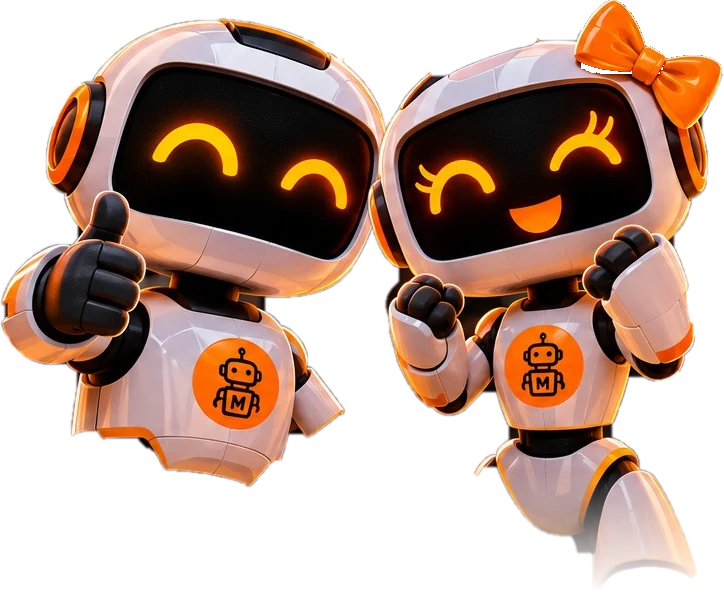
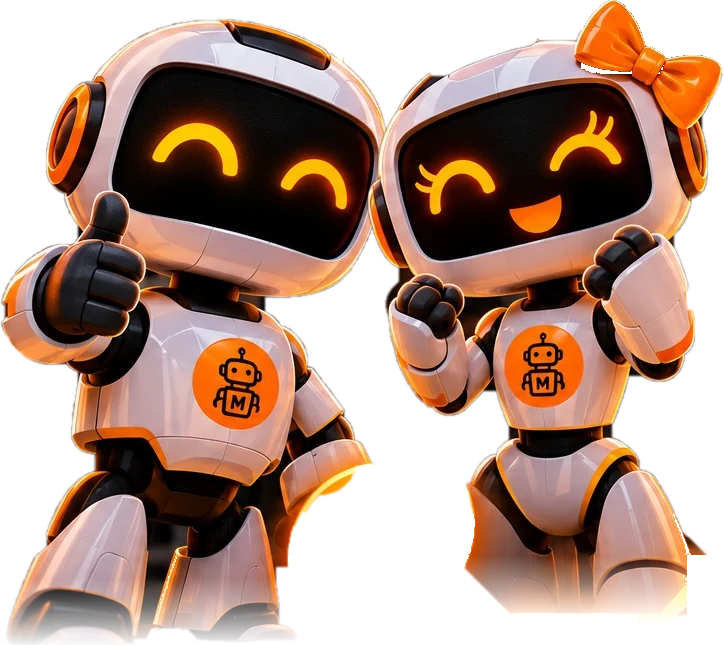
Black Friday: corpo inteiro dos robôs e seções centralizadas (hero à esquerda) (#10)
Claude-Session: https://claude.ai/code/session_01TjswJxo8KnA18Yvp363SCs

diff --git a/myrobot-vercel/blackfriday.html b/myrobot-vercel/blackfriday.html
@@ -100,7 +100,7 @@ a{color:inherit}
 .proof{display:flex;flex-wrap:wrap;gap:6px 16px;margin-top:18px;font-size:13px;color:var(--mut)}
 .proof span{display:inline-flex;align-items:center;gap:7px}
 .proof span::before{content:'';width:6px;height:6px;border-radius:50%;background:var(--orange)}
-.robos{position:relative;display:flex;justify-content:center;align-items:flex-end;margin:14px 0 0;height:min(66vw,300px)}
+.robos{position:relative;display:flex;justify-content:center;align-items:flex-end;margin:14px 0 0;height:min(86vw,400px)}
 .robos img{height:100%;width:auto;display:block;filter:drop-shadow(0 0 40px rgba(255,106,26,.28))}
 
 /* seções */
@@ -202,7 +202,7 @@ footer p{margin-top:4px}
   .hero .wrap{display:grid;grid-template-columns:1.2fr .8fr;gap:20px;align-items:center}
   .cta-row{flex-direction:row;align-items:center}
   .cta-row .btn{white-space:nowrap}
-  .robos{height:440px;margin:0}
+  .robos{height:500px;margin:0}
   .vc{display:inline-flex}
   .ofertas{display:grid;grid-template-columns:repeat(4,1fr);overflow:visible;margin:36px 0 0;padding:0}
   .of{flex:none}
@@ -214,6 +214,21 @@ footer p{margin-top:4px}
   .sticky{display:none}
   footer{padding-bottom:50px}
 }
+
+/* tudo centralizado, exceto o hero */
+section:not(.hero) .wrap{text-align:center}
+section:not(.hero) .sub,.priv{margin-left:auto;margin-right:auto}
+.fine{margin-left:auto;margin-right:auto}
+.of ul{justify-items:start;width:fit-content;margin:12px auto 0}
+.of li{text-align:left}
+.pa{flex-direction:column;align-items:center;text-align:center}
+.pq div{padding:18px 0 0;border-left:0;border-top:2px solid var(--orange);max-width:340px;margin:0 auto}
+.form{margin-left:auto;margin-right:auto;text-align:left}
+.passo h3,.passo .s,.ok{text-align:center}
+.priv{text-align:center}
+details{text-align:left}
+footer .wrap{text-align:center}
+footer img{margin-left:auto;margin-right:auto}
 @media(prefers-reduced-motion:reduce){*{transition:none!important;scroll-behavior:auto!important}}
 </style>
 </head>
@@ -239,7 +254,7 @@ footer p{margin-top:4px}
       </div>
       <div class="proof"><span>Robótica, programação e IA</span><span>A partir de 5 anos</span><span>Turmas pequenas</span></div>
     </div>
-    <div class="robos" aria-hidden="true"><img src="/assets/bf/robos.webp" alt="" width="724" height="594" fetchpriority="high"></div>
+    <div class="robos" aria-hidden="true"><img src="/assets/bf/robos.webp" alt="" width="724" height="645" fetchpriority="high"></div>
   </div>
 </section>
 
@@ -370,7 +385,7 @@ footer p{margin-top:4px}
   <div class="wrap">
     <div class="eyebrow">Dúvidas frequentes</div>
     <h2>Antes de agendar.</h2>
-    <div style="margin-top:22px;max-width:760px">
+    <div style="margin:22px auto 0;max-width:760px">
       <details><summary>Para quais idades?</summary><p>Atendemos a partir de 5 anos, com trilhas pensadas para cada faixa etária.</p></details>
       <details><summary>Como é a aula experimental?</summary><p>Seu filho participa de uma aula prática com um instrutor, conhece os kits e vive a robótica na prática. Depois da aula, a família conhece as condições de Black Friday.</p></details>
       <details><summary>Posso trazer um amigo ou irmão?</summary><p>Pode. Com o Black Pass, dois novos alunos que se matriculam em novembro têm a taxa de matrícula isenta.</p></details>
